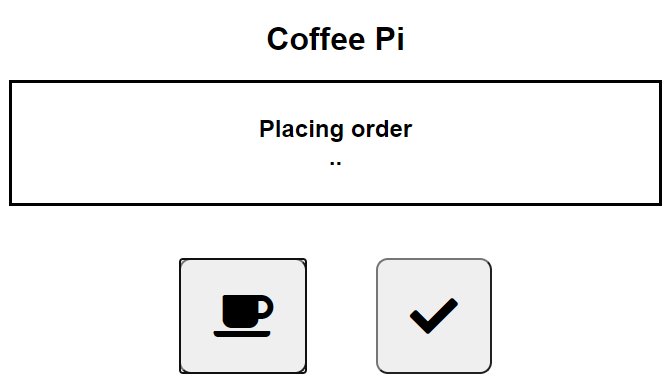
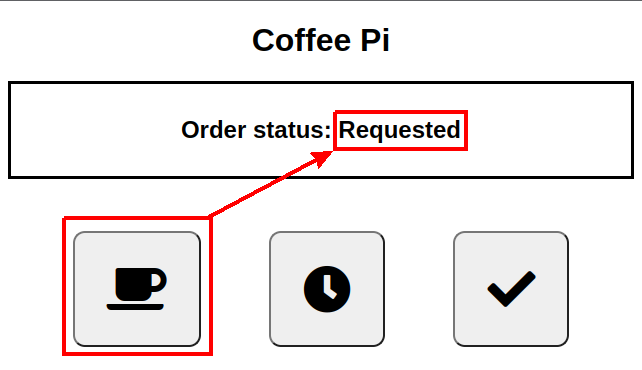
- added Acknowledge stage to order process - track order status with global so it can be used from separate computers

diff --git a/index.html b/index.html
@@ -49,15 +49,12 @@
           if (this.readyState == 4 && this.status == 200)
           {
             var status = document.getElementById('status');
-            status.innerText = this.responseText === "None" ? "Now taking orders" : "Order placed: " + this.responseText;
-            clearInterval(updateTimer);
+            status.innerText = this.responseText === "None" ? "Now taking orders" : "Order status: " + this.responseText;
           }
         };
         xhttp.open("GET", route, true);
         xhttp.setRequestHeader("Content-type", "application/json");
         xhttp.send();
-
-        updateTimer = setInterval(UpdatePlacingOrder, 500);
       }
 
       function PlacingOrder()
@@ -68,22 +65,22 @@
 
       function UpdatePlacingOrder()
       {
-        var status = document.getElementById('status');
-        status.innerText += ".";
+        OnButton('/status');
       }
 
       function OnLoad()
       {
-        OnButton('/status');
+        setInterval(UpdatePlacingOrder, 500);
       }
     </script>
   </head>
 
   <body onload="OnLoad()">
     <h1 class="center">Coffee Pi</h1>
-    <h2 class="center border" id="status">Now taking orders...</h2>
+    <h2 class="center border" id="status"></h2>
     <div class="center controls">
       <button type="button" class="fas fa-coffee button" onclick="PlacingOrder();OnButton('/order');"></button>
+      <button type="button" class="fas fa-clock button" onclick="OnButton('/acknowledged');"></button>
       <button type="button" class="fas fa-check button" onclick="OnButton('/received');"></button>
     </div>
   </body>

diff --git a/index.py b/index.py
@@ -2,11 +2,12 @@
 
 import RPi.GPIO as GPIO
 from datetime import datetime, date
-from flask import Flask, session
+from flask import Flask
 
 app = Flask(__name__, static_url_path='', static_folder='')
 app.secret_key = b'_5#y2L"F4Q8z\n\xec]/'
 
+OrderStatus = "Now taking orders"
 
 @app.route("/")
 def index():
@@ -14,19 +15,28 @@ def index():
 
 @app.route("/order")
 def order():
-  session["OrderReceived"] = datetime.now()
+  global OrderStatus
+  OrderStatus = "Requested"
   GPIO.output(15, GPIO.HIGH)
-  return session["OrderReceived"].__str__()
+  return OrderStatus
 
 @app.route("/received")
 def received():
-  session["OrderReceived"] = None
+  global OrderStatus
+  OrderStatus = "Now taking orders"
   GPIO.output(15, GPIO.LOW)
-  return None.__str__()
+  return OrderStatus
+
+@app.route("/acknowledged")
+def acknowledged():
+  global OrderStatus
+  OrderStatus = "Acknowledged"
+  return OrderStatus
 
 @app.route("/status")
 def status():
-  return session["OrderReceived"].__str__() if ("OrderReceived" in session) else None
+  global OrderStatus
+  return OrderStatus
 
 
 GPIO.setmode(GPIO.BCM)

diff --git a/README.md b/README.md
@@ -7,12 +7,24 @@ Instead of her calling out for one, or even ringing a bell, what better
 way than to employ one of my Raspberry Pi Zeros 
 (and a tacky, £1.50 plastic palm tree with LED lights)?
 
-The RPi0 serves up a webpage with two buttons:
+The RPi0 serves up a webpage with three buttons:
 * order a coffee
-* acknowledge receipt of coffee
+* acknowledge order [me]
+* acknowledge receival of coffee [wife]
 
 When the _Order_ button is pressed, it lights up the palm tree;
-and the _Receive_ button turns it off - simples!
+_Acknowledge_ button updates order status;
+and the _Receive_ button turns it off and resets the system - simples!
+
+## Prerequisites
+<details>
+
+```bash
+sudo apt install python3-pip
+pip3 install flask
+```
+
+</details>
 
 ## Photos and Screenshots
 <details>
@@ -43,6 +55,12 @@ _[Python Flask](https://en.wikipedia.org/wiki/Flask_\(web_framework\))_ is used 
 and provide RESTful APIs.
 
 The single web page uses _Javascript_ to call various APIs to _order_ and _receive_ a coffee.
+
+The python server tracks order status in a _global_ variable, so that I can acknowledge the order from
+another computer.
+
+The web page regularly polls the python server for the order status, so my wife knows I have received
+the order.
 
 _[Python GPIO](https://pypi.org/project/RPi.GPIO/)_ is used to turn on/off power to the LEDs.
 
